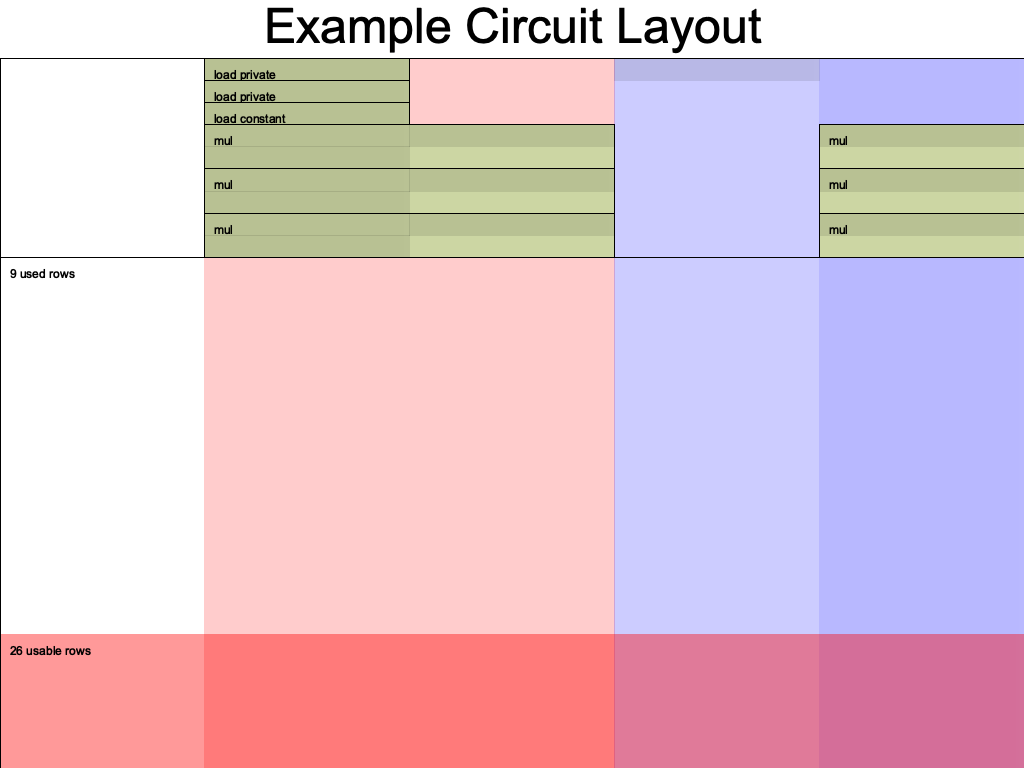
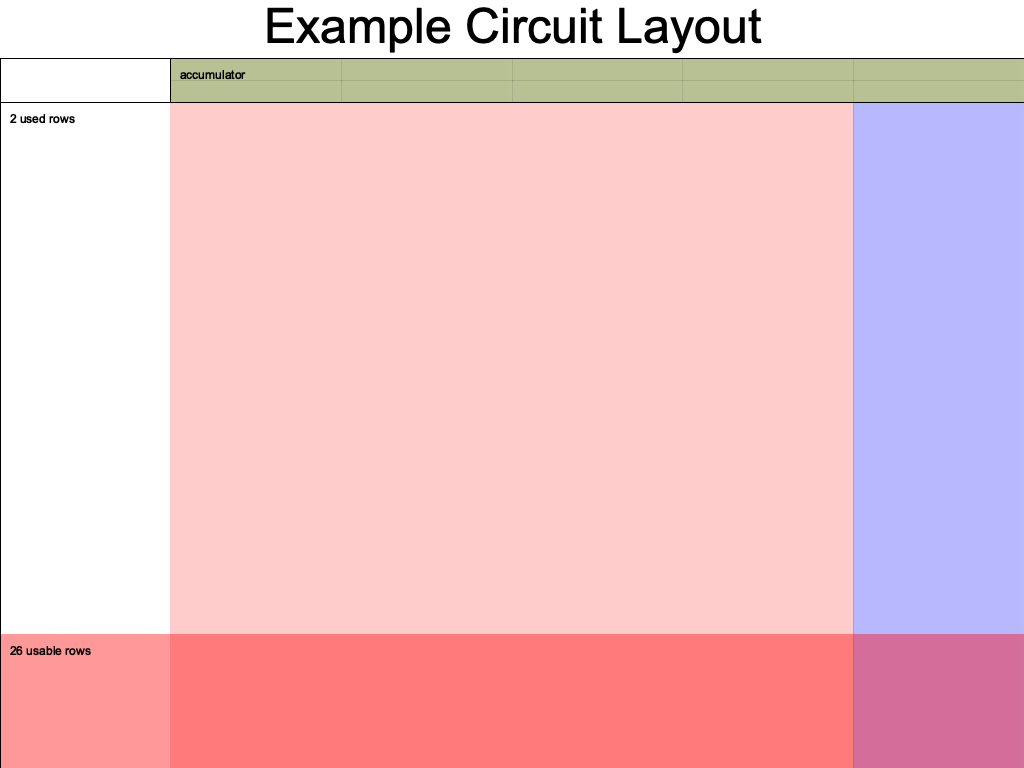
global score calculation

diff --git a/src/simple.rs b/src/simple.rs
@@ -2,28 +2,44 @@ use std::marker::PhantomData;
 
 use halo2_proofs::{
     arithmetic::FieldExt,
-    circuit::{Layouter, Region, SimpleFloorPlanner},
-    plonk::{Advice, Circuit, Column, ConstraintSystem, Error, Instance},
+    circuit::{Layouter, Region, SimpleFloorPlanner, AssignedCell},
+    plonk::{Advice, Circuit, Column, ConstraintSystem, Error, Selector, Instance},
     poly::Rotation,
 };
 
 #[derive(Clone, Debug)]
+struct Opinion<F: FieldExt> {
+	local_score: F,
+	global_score: F,
+}
+
+impl <F: FieldExt> Opinion<F> {
+	fn new(local_score: F, global_score: F) -> Self {
+		Opinion {
+			local_score,
+			global_score,
+		}
+	}
+
+	fn calculate_score(&self) -> F {
+		self.local_score * self.global_score
+	}
+}
+
+#[derive(Clone, Debug)]
 struct FieldConfig<F: FieldExt> {
-    advice1: Column<Advice>,
-    advice2: Column<Advice>,
-    advice3: Column<Advice>,
-    instance: Column<Instance>,
+	advices: [Column<Advice>; 4],
+	instance: Column<Instance>,
+	s_mul: Selector,
     _marker: PhantomData<F>,
 }
 
 #[derive(Default)]
 struct MyCircuit<F: FieldExt> {
-    a: Option<F>,
-    b: Option<F>,
+	opinions: Vec<Option<Opinion<F>>>,
 }
 
 impl<F: FieldExt> Circuit<F> for MyCircuit<F> {
-    // Since we are using a single chip for everything, we can just reuse its config.
     type Config = FieldConfig<F>;
     type FloorPlanner = SimpleFloorPlanner;
 
@@ -32,30 +48,33 @@ impl<F: FieldExt> Circuit<F> for MyCircuit<F> {
     }
 
     fn configure(meta: &mut ConstraintSystem<F>) -> Self::Config {
-        // We create the two advice columns that FieldChip uses for I/O.
         let advice1 = meta.advice_column();
         let advice2 = meta.advice_column();
         let advice3 = meta.advice_column();
+		let advice4 = meta.advice_column();
 
-        // We also need an instance column to store public inputs.
         let instance = meta.instance_column();
 
-		meta.enable_equality(advice3);
+		let s_mul = meta.selector();
+
+		meta.enable_equality(advice1);
+		meta.enable_equality(advice4);
 		meta.enable_equality(instance);
 
-        meta.create_gate("mul", |v_cells| {
-            let lhs = v_cells.query_advice(advice1, Rotation::cur());
-            let rhs = v_cells.query_advice(advice2, Rotation::cur());
-            let out = v_cells.query_advice(advice3, Rotation::cur());
+        meta.create_gate("accumulator", |v_cells| {
+			let sum = v_cells.query_advice(advice1, Rotation::cur());
+            let lhs = v_cells.query_advice(advice2, Rotation::cur());
+            let rhs = v_cells.query_advice(advice3, Rotation::cur());
+            let out = v_cells.query_advice(advice4, Rotation::cur());
+			let s = v_cells.query_selector(s_mul);
 
-            vec![lhs * rhs - out]
+            vec![s * (sum + (lhs * rhs) - out)]
         });
 
         FieldConfig {
-            advice1,
-            advice2,
-            advice3,
-            instance,
+            advices: [advice1, advice2, advice3, advice4],
+			instance,
+			s_mul,
             _marker: PhantomData,
         }
     }
@@ -66,20 +85,37 @@ impl<F: FieldExt> Circuit<F> for MyCircuit<F> {
         mut layouter: impl Layouter<F>,
     ) -> Result<(), Error> {
 
-        let c = layouter.assign_region(|| "mul", |mut region: Region<'_, F>| {
-			let a_cell = region.assign_advice(|| "private", config.advice1, 0, || self.a.ok_or(Error::Synthesis))?;
-			let b_cell = region.assign_advice(|| "private", config.advice2, 0, || self.b.ok_or(Error::Synthesis))?;
-			// Now we can assign the multiplication result, which is to be assigned
-			// into the output position.
-			let value = a_cell.value().and_then(|a| b_cell.value().map(|b| *a * *b));
+        let global_score = layouter.assign_region(|| "accumulator", |mut region: Region<'_, F>| {
+			let mut accumulated_cell: Option<AssignedCell<F, F>> = None;
+			for i in 0..self.opinions.len() {
+				if let Some(opinion) = &self.opinions[i] {
+					// Set selector as enabled
+					config.s_mul.enable(&mut region, i)?;
 
-			// Finally, we do the assignment to the output, returning a
-			// variable to be used in another part of the circuit.
-			region.assign_advice(|| "out", config.advice3, 0, || value.ok_or(Error::Synthesis))
+					let sum_cell = if let Some(accumulated_cell) = accumulated_cell {
+						accumulated_cell.copy_advice(|| "acc", &mut region, config.advices[0], i)?
+					} else {
+						region.assign_advice(|| "acc", config.advices[0], i, || Ok(F::zero()))?
+					};
+
+					let lhs_cell = region.assign_advice(|| "lhs", config.advices[1], i, || Ok(opinion.local_score))?;
+					let rhs_cell = region.assign_advice(|| "rhs", config.advices[2], i, || Ok(opinion.global_score))?;
+
+					let value = lhs_cell.value().and_then(|&a| rhs_cell.value().map(|&b| a * b));
+					let out_score = sum_cell.value().and_then(|&sum| value.map(|v| sum + v));
+
+					let out = region.assign_advice(|| "out", config.advices[3], i, || out_score.ok_or(Error::Synthesis))?;
+
+					accumulated_cell = Some(out);
+				}
+			}
+			accumulated_cell.ok_or(Error::Synthesis)
 		})?;
 
         // Expose the result as a public input to the circuit.
-        layouter.constrain_instance(c.cell(), config.instance, 0)
+		layouter.constrain_instance(global_score.cell(), config.instance, 0)?;
+
+		Ok(())
     }
 }
 
@@ -88,22 +124,19 @@ pub fn main() {
 
     // The number of rows in our circuit cannot exceed 2^k. Since our example
     // circuit is very small, we can pick a very small value here.
-    let k = 4;
+    let k = 8;
 
-    // Prepare the private and public inputs to the circuit!
-    let a = Fp::from(2);
-    let b = Fp::from(3);
-    let c = a * b;
+	let opinion = Opinion::new(Fp::from(2), Fp::from(3));
+	let final_score = opinion.calculate_score().double();
 
     // Instantiate the circuit with the private inputs.
     let circuit = MyCircuit {
-        a: Some(a),
-        b: Some(b),
+		opinions: vec![Some(opinion); 2],
     };
 
     // Arrange the public input. We expose the multiplication result in row 0
     // of the instance column, so we position it there in our public inputs.
-    let mut public_inputs = vec![c];
+    let mut public_inputs = vec![final_score];
 
     // Given the correct public input, our circuit will verify.
     let prover = MockProver::run(k, &circuit, vec![public_inputs.clone()]).unwrap();
@@ -113,4 +146,17 @@ pub fn main() {
     public_inputs[0] += Fp::one();
     let prover = MockProver::run(k, &circuit, vec![public_inputs]).unwrap();
     assert!(prover.verify().is_err());
+
+	    // Create the area you want to draw on.
+    // Use SVGBackend if you want to render to .svg instead.
+    use plotters::prelude::*;
+    let root = BitMapBackend::new("layout.png", (1024, 768)).into_drawing_area();
+    root.fill(&WHITE).unwrap();
+    let root = root
+        .titled("Example Circuit Layout", ("sans-serif", 60))
+        .unwrap();
+
+    halo2_proofs::dev::CircuitLayout::default()
+        .render(5, &circuit, &root)
+        .unwrap();
 }
